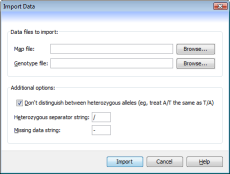
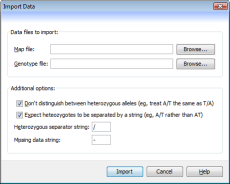
- NEW: Flapjack can now read files containing genotype data that does include heterozygous separator characters. - NEW: Added an option to the import dialog to specific whether to look for separator characters or not. - CHG: Modified the mouse-over-genotype label to properly format the display for h

diff --git a/src/flapjack/gui/dialog/NBDataImportPanel.java b/src/flapjack/gui/dialog/NBDataImportPanel.java
@@ -21,6 +21,7 @@ public class NBDataImportPanel extends javax.swing.JPanel implements ActionListe
 
 		mapButton.addActionListener(this);
 		genoButton.addActionListener(this);
+		checkUseHetSep.addActionListener(this);
 
 		mapText.setText(Prefs.guiCurrentMap);
 		mapText.setCaretPosition(0);
@@ -30,6 +31,7 @@ public class NBDataImportPanel extends javax.swing.JPanel implements ActionListe
 		missingText.setText(Prefs.ioMissingData);
 		heteroText.setText(Prefs.ioHeteroSeparator);
 		checkHetero.setSelected(Prefs.ioHeteroCollapse);
+		checkUseHetSep.setSelected(Prefs.ioUseHetSep);
 
 		// Apply localized text
 		filePanel.setBorder(BorderFactory.createTitledBorder(RB.getString("gui.dialog.NBDataImportPanel.filePanel")));
@@ -38,9 +40,12 @@ public class NBDataImportPanel extends javax.swing.JPanel implements ActionListe
 		RB.setText(genoLabel, "gui.dialog.NBDataImportPanel.genoLabel");
 		genoButton.setText(RB.getString("gui.text.browse"));
 		optionPanel.setBorder(BorderFactory.createTitledBorder(RB.getString("gui.dialog.NBDataImportPanel.optionPanel")));
+		RB.setText(checkUseHetSep, "gui.dialog.NBDataImportPanel.checkUseHetSep");
 		RB.setText(missingLabel, "gui.dialog.NBDataImportPanel.missingLabel");
 		RB.setText(heteroLabel, "gui.dialog.NBDataImportPanel.heteroLabel");
 		RB.setText(checkHetero, "gui.dialog.NBDataImportPanel.checkHetero");
+		
+		setLabelStates();
 	}
 
 	public void actionPerformed(ActionEvent e)
@@ -50,6 +55,9 @@ public class NBDataImportPanel extends javax.swing.JPanel implements ActionListe
 
 		else if (e.getSource() == genoButton)
 			browse(genoText);
+	
+		else if (e.getSource() == checkUseHetSep)
+			setLabelStates();
 	}
 
 	private void browse(JTextField textfield)
@@ -85,6 +93,7 @@ public class NBDataImportPanel extends javax.swing.JPanel implements ActionListe
 		Prefs.ioMissingData = missingText.getText();
 		Prefs.ioHeteroSeparator = heteroText.getText();
 		Prefs.ioHeteroCollapse = checkHetero.isSelected();
+		Prefs.ioUseHetSep = checkUseHetSep.isSelected();
 
 		return true;
 	}
@@ -99,6 +108,12 @@ public class NBDataImportPanel extends javax.swing.JPanel implements ActionListe
 	{
 		Prefs.guiCurrentGeno = genoText.getText();
 		return new File(genoText.getText());
+	}
+	
+	private void setLabelStates()
+	{
+		heteroLabel.setEnabled(checkUseHetSep.isSelected());
+		heteroText.setEnabled(checkUseHetSep.isSelected());
 	}
 
 	/** This method is called from within the constructor to
@@ -122,6 +137,7 @@ public class NBDataImportPanel extends javax.swing.JPanel implements ActionListe
         checkHetero = new javax.swing.JCheckBox();
         missingLabel = new javax.swing.JLabel();
         missingText = new javax.swing.JTextField();
+        checkUseHetSep = new javax.swing.JCheckBox();
 
         filePanel.setBorder(javax.swing.BorderFactory.createTitledBorder("Data files to import:"));
 
@@ -186,6 +202,8 @@ public class NBDataImportPanel extends javax.swing.JPanel implements ActionListe
 
         missingText.setColumns(4);
 
+        checkUseHetSep.setText("Expect heteozygotes to be separated by a string (A/T rather than AT)");
+
         org.jdesktop.layout.GroupLayout optionPanelLayout = new org.jdesktop.layout.GroupLayout(optionPanel);
         optionPanel.setLayout(optionPanelLayout);
         optionPanelLayout.setHorizontalGroup(
@@ -193,15 +211,16 @@ public class NBDataImportPanel extends javax.swing.JPanel implements ActionListe
             .add(optionPanelLayout.createSequentialGroup()
                 .addContainerGap()
                 .add(optionPanelLayout.createParallelGroup(org.jdesktop.layout.GroupLayout.LEADING)
+                    .add(checkUseHetSep)
                     .add(checkHetero)
                     .add(optionPanelLayout.createSequentialGroup()
-                        .add(optionPanelLayout.createParallelGroup(org.jdesktop.layout.GroupLayout.LEADING)
-                            .add(heteroLabel)
-                            .add(missingLabel))
+                        .add(heteroLabel)
                         .addPreferredGap(org.jdesktop.layout.LayoutStyle.RELATED)
-                        .add(optionPanelLayout.createParallelGroup(org.jdesktop.layout.GroupLayout.LEADING)
-                            .add(missingText, org.jdesktop.layout.GroupLayout.PREFERRED_SIZE, org.jdesktop.layout.GroupLayout.DEFAULT_SIZE, org.jdesktop.layout.GroupLayout.PREFERRED_SIZE)
-                            .add(heteroText, org.jdesktop.layout.GroupLayout.PREFERRED_SIZE, org.jdesktop.layout.GroupLayout.DEFAULT_SIZE, org.jdesktop.layout.GroupLayout.PREFERRED_SIZE))))
+                        .add(heteroText, org.jdesktop.layout.GroupLayout.PREFERRED_SIZE, org.jdesktop.layout.GroupLayout.DEFAULT_SIZE, org.jdesktop.layout.GroupLayout.PREFERRED_SIZE))
+                    .add(optionPanelLayout.createSequentialGroup()
+                        .add(missingLabel)
+                        .add(62, 62, 62)
+                        .add(missingText, org.jdesktop.layout.GroupLayout.PREFERRED_SIZE, org.jdesktop.layout.GroupLayout.DEFAULT_SIZE, org.jdesktop.layout.GroupLayout.PREFERRED_SIZE)))
                 .addContainerGap(org.jdesktop.layout.GroupLayout.DEFAULT_SIZE, Short.MAX_VALUE))
         );
         optionPanelLayout.setVerticalGroup(
@@ -209,7 +228,9 @@ public class NBDataImportPanel extends javax.swing.JPanel implements ActionListe
             .add(optionPanelLayout.createSequentialGroup()
                 .addContainerGap()
                 .add(checkHetero)
-                .addPreferredGap(org.jdesktop.layout.LayoutStyle.UNRELATED)
+                .addPreferredGap(org.jdesktop.layout.LayoutStyle.RELATED)
+                .add(checkUseHetSep)
+                .addPreferredGap(org.jdesktop.layout.LayoutStyle.RELATED)
                 .add(optionPanelLayout.createParallelGroup(org.jdesktop.layout.GroupLayout.BASELINE)
                     .add(heteroLabel)
                     .add(heteroText, org.jdesktop.layout.GroupLayout.PREFERRED_SIZE, org.jdesktop.layout.GroupLayout.DEFAULT_SIZE, org.jdesktop.layout.GroupLayout.PREFERRED_SIZE))
@@ -245,6 +266,7 @@ public class NBDataImportPanel extends javax.swing.JPanel implements ActionListe
 
     // Variables declaration - do not modify//GEN-BEGIN:variables
     private javax.swing.JCheckBox checkHetero;
+    private javax.swing.JCheckBox checkUseHetSep;
     private javax.swing.JPanel filePanel;
     private javax.swing.JButton genoButton;
     private javax.swing.JLabel genoLabel;

diff --git a/src/flapjack/gui/dialog/DataImportingDialog.java b/src/flapjack/gui/dialog/DataImportingDialog.java
@@ -40,7 +40,7 @@ public class DataImportingDialog extends JDialog implements Runnable
 	private boolean isIndeterminate = false;
 	private boolean isOK = false;
 
-	public DataImportingDialog(File mapFile, File genoFile)
+	public DataImportingDialog(File mapFile, File genoFile, boolean usePrefs)
 	{
 		super(
 			Flapjack.winMain,
@@ -52,8 +52,14 @@ public class DataImportingDialog extends JDialog implements Runnable
 		this.genoFile = genoFile;
 
 		mapImporter  = new ChromosomeMapImporter(mapFile, dataSet);
-		genoImporter = new GenotypeDataImporter(genoFile, dataSet,
-			Prefs.ioMissingData, Prefs.ioHeteroSeparator);
+
+		// Initializes the data importer, passing it the required options, either
+		// from the preferences (if a user file is being opened) or with preset
+		// options if we're loading the sample file (which has a set format)
+		if (usePrefs)
+			genoImporter = new GenotypeDataImporter(genoFile, dataSet, Prefs.ioMissingData, Prefs.ioUseHetSep, Prefs.ioHeteroSeparator);
+		else
+			genoImporter = new GenotypeDataImporter(genoFile, dataSet, "-", true, "/");
 
 		add(createControls());
 

diff --git a/src/flapjack/io/GenotypeDataImporter.java b/src/flapjack/io/GenotypeDataImporter.java
@@ -13,6 +13,7 @@ public class GenotypeDataImporter
 	private StateTable stateTable;
 
 	private String ioMissingData;
+	private boolean ioUseHetSep;
 	private String ioHeteroSeparator;
 
 	private int lineCount = 1;
@@ -22,11 +23,12 @@ public class GenotypeDataImporter
 
 	private boolean isOK = true;
 
-	public GenotypeDataImporter(File file, DataSet dataSet, String ioMissingData, String ioHeteroSeparator)
+	public GenotypeDataImporter(File file, DataSet dataSet, String ioMissingData, boolean ioUseHetSep, String ioHeteroSeparator)
 	{
 		this.file = file;
 		this.dataSet = dataSet;
 		this.ioMissingData = ioMissingData;
+		this.ioUseHetSep = ioUseHetSep;
 		this.ioHeteroSeparator = ioHeteroSeparator;
 
 		stateTable = dataSet.getStateTable();
@@ -127,7 +129,7 @@ public class GenotypeDataImporter
 
 					// Determine its various states
 					int stateCode = stateTable.getStateCode(values[i], true,
-						ioMissingData, ioHeteroSeparator);
+						ioMissingData, ioUseHetSep, ioHeteroSeparator);
 
 					// Then apply them to the marker data
 					line.setLoci(mapIndex[i], markerIndex[i], stateCode);

diff --git a/src/flapjack/data/AlleleState.java b/src/flapjack/data/AlleleState.java
@@ -11,11 +11,21 @@ public class AlleleState extends XMLRoot
 	{
 	}
 
-	public AlleleState(String rawData, String ioHeteroString)
+	public AlleleState(String rawData, boolean useHetSep, String hetSepStr)
 	{
 		this.rawData = new String(rawData.toUpperCase());
 
-		states = rawData.split(ioHeteroString);
+		// If we want to separate on a known string, eg A/B as A & B
+		if (useHetSep)
+			states = rawData.split(hetSepStr);
+		// Or if we want to separate on every character, eg AB as A & B
+		else
+		{
+			states = new String[rawData.length()];
+
+			for (int i = 0; i < states.length; i++)
+				states[i] = "" + rawData.charAt(i);
+		}
 
 		if (states.length > 1)
 			isHomozygous = false;
@@ -101,5 +111,15 @@ public class AlleleState extends XMLRoot
 				count++;
 
 		return count;
+	}
+
+	public String format()
+	{
+		String str = states[0];
+
+		for (int i = 1; i < states.length; i++)
+			str += "/" + states[i];
+
+		return str;
 	}
 }

diff --git a/src/flapjack/data/StateTable.java b/src/flapjack/data/StateTable.java
@@ -12,7 +12,7 @@ public class StateTable extends XMLRoot
 
 	public StateTable(int notused)
 	{
-		states.add(new AlleleState("", "/"));
+		states.add(new AlleleState("", true, "/"));
 	}
 
 	void validate()
@@ -44,7 +44,7 @@ public class StateTable extends XMLRoot
 		return states.get(code);
 	}
 
-	public int getStateCode(String rawData, boolean create, String missingString, String heteroString)
+	public int getStateCode(String rawData, boolean create, String missingString, boolean useHetSep, String hetSepStr)
 	{
 		// If there's no state information, return our default "unknown" code
 		if (rawData.equals(missingString))
@@ -58,7 +58,7 @@ public class StateTable extends XMLRoot
 			return -1;
 
 		// If it wasn't found and needs to be created, then add it
-		states.add(new AlleleState(rawData, heteroString));
+		states.add(new AlleleState(rawData, useHetSep, hetSepStr));
 		return states.size() - 1;
 	}
 

diff --git a/src/flapjack/gui/MenuFile.java b/src/flapjack/gui/MenuFile.java
@@ -151,7 +151,7 @@ public class MenuFile
 
 		gPanel.resetBufferedState(false);
 
-		importGenotypeData(dialog.getMapFile(), dialog.getGenotypeFile());
+		importGenotypeData(dialog.getMapFile(), dialog.getGenotypeFile(), true);
 	}
 
 	// Extracts sample data from the jar file, writes it to a temp location,
@@ -175,14 +175,14 @@ public class MenuFile
 			return;
 		}
 
-		importGenotypeData(mapFile, datFile);
+		importGenotypeData(mapFile, datFile, false);
 	}
 
 	// Given a map file and a genotype (dat) file, imports that data, showing a
 	// progress bar while doing so
-	private void importGenotypeData(File mapFile, File datFile)
+	private void importGenotypeData(File mapFile, File datFile, boolean usePrefs)
 	{
-		DataImportingDialog dialog = new DataImportingDialog(mapFile, datFile);
+		DataImportingDialog dialog = new DataImportingDialog(mapFile, datFile, usePrefs);
 
 		if (dialog.isOK())
 		{

diff --git a/src/flapjack/analysis/CalculateMarkerFrequenciesTest.java b/src/flapjack/analysis/CalculateMarkerFrequenciesTest.java
@@ -21,7 +21,7 @@ public class CalculateMarkerFrequenciesTest extends TestCase
 		ChromosomeMapImporter mapImporter
 			= new ChromosomeMapImporter(mapFile, dataSet);
 		GenotypeDataImporter genoImporter
-			= new GenotypeDataImporter(genoFile, dataSet, "", "/");
+			= new GenotypeDataImporter(genoFile, dataSet, "", true, "/");
 
 		mapImporter.importMap();
 		genoImporter.importGenotypeData();

diff --git a/src/flapjack/analysis/AlleleStatisticsTest.java b/src/flapjack/analysis/AlleleStatisticsTest.java
@@ -26,7 +26,7 @@ public class AlleleStatisticsTest extends TestCase
 		ChromosomeMapImporter mapImporter
 			= new ChromosomeMapImporter(mapFile, dataSet);
 		GenotypeDataImporter genoImporter
-			= new GenotypeDataImporter(genoFile, dataSet, "", "/");
+			= new GenotypeDataImporter(genoFile, dataSet, "", true, "/");
 
 		mapImporter.importMap();
 		genoImporter.importGenotypeData();

diff --git a/src/flapjack/data/UndoManagerTest.java b/src/flapjack/data/UndoManagerTest.java
@@ -32,7 +32,7 @@ public class UndoManagerTest extends TestCase
 		ChromosomeMapImporter mapImporter
 			= new ChromosomeMapImporter(mapFile, dataSet);
 		GenotypeDataImporter genoImporter
-			= new GenotypeDataImporter(genoFile, dataSet, "", "/");
+			= new GenotypeDataImporter(genoFile, dataSet, "", true, "/");
 
 		mapImporter.importMap();
 		genoImporter.importGenotypeData();

diff --git a/src/flapjack/analysis/FindLineTest.java b/src/flapjack/analysis/FindLineTest.java
@@ -26,7 +26,7 @@ public class FindLineTest extends TestCase
 		ChromosomeMapImporter mapImporter
 			= new ChromosomeMapImporter(mapFile, dataSet);
 		GenotypeDataImporter genoImporter
-			= new GenotypeDataImporter(genoFile, dataSet, "", "/");
+			= new GenotypeDataImporter(genoFile, dataSet, "", true, "/");
 
 		mapImporter.importMap();
 		genoImporter.importGenotypeData();

diff --git a/src/flapjack/data/DataSetTest.java b/src/flapjack/data/DataSetTest.java
@@ -31,7 +31,7 @@ public class DataSetTest extends TestCase
 		ChromosomeMapImporter mapImporter
 			= new ChromosomeMapImporter(file1, dataSet);
 		GenotypeDataImporter genoImporter
-			= new GenotypeDataImporter(file2, dataSet, "", "/");
+			= new GenotypeDataImporter(file2, dataSet, "", true, "/");
 
 		mapImporter.importMap();
 		genoImporter.importGenotypeData();

diff --git a/src/flapjack/io/CreateProject.java b/src/flapjack/io/CreateProject.java
@@ -76,7 +76,7 @@ public class CreateProject
 
 		// Read the data file
 		GenotypeDataImporter genoImporter =
-			new GenotypeDataImporter(genotypesFile, dataSet, "-", "/");
+			new GenotypeDataImporter(genotypesFile, dataSet, "-", true, "/");
 		genoImporter.importGenotypeData();
 
 		PostImportOperations pio = new PostImportOperations(dataSet);
